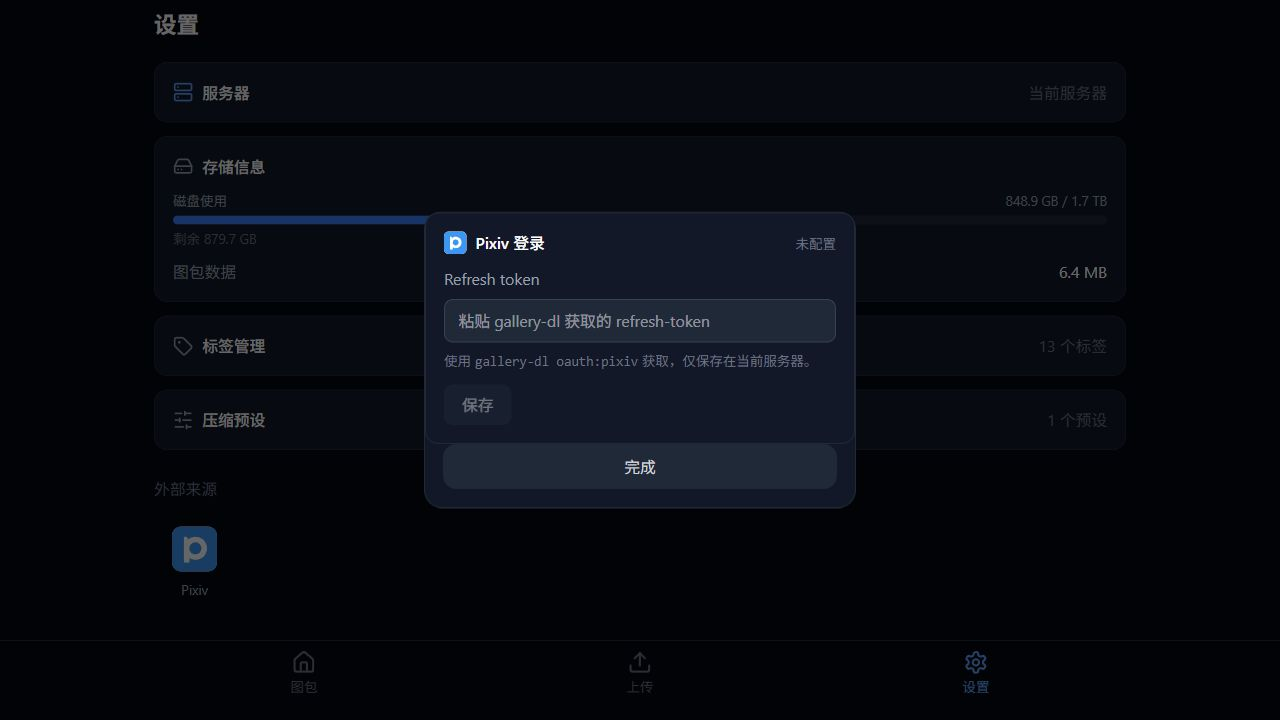
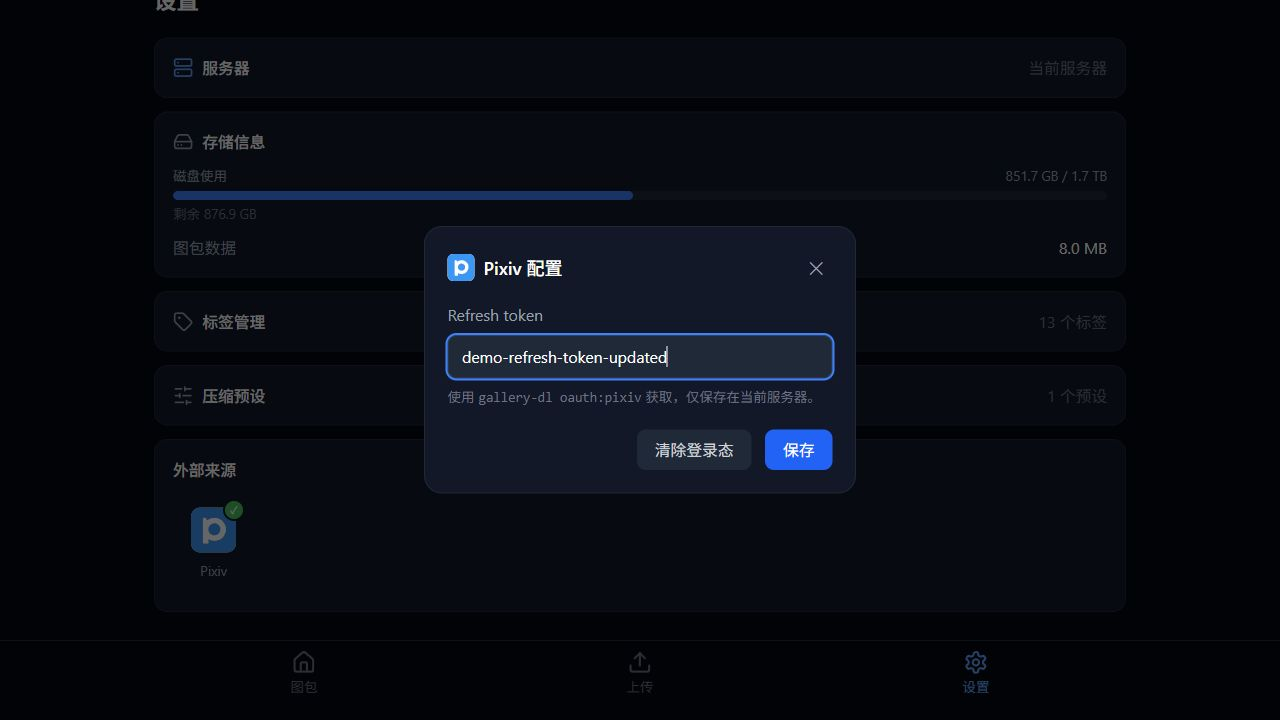
Refine Pixiv settings and document interface conventions

diff --git a/client/src/components/PixivSettings.tsx b/client/src/components/PixivSettings.tsx
@@ -3,33 +3,42 @@ import { fetchPixivSettings, updatePixivSettings } from '../api/pixiv';
 import type { PixivSettings as Settings } from '../../../shared/types';
 import { PixivIcon } from './ImportSources';
 
-export default function PixivSettings() {
+export default function PixivSettings({ onClose, onSaved }: { onClose: () => void; onSaved?: () => void }) {
   const [settings, setSettings] = useState<Settings | null>(null);
   const [token, setToken] = useState('');
+  const [savedToken, setSavedToken] = useState('');
   const [busy, setBusy] = useState(false);
   const [message, setMessage] = useState('');
-  useEffect(() => { void fetchPixivSettings().then(setSettings).catch(() => setMessage('无法读取 Pixiv 配置')); }, []);
+  useEffect(() => {
+    void fetchPixivSettings(true).then(value => {
+      setSettings(value); setToken(value.refreshToken ?? ''); setSavedToken(value.refreshToken ?? '');
+    }).catch(() => setMessage('无法读取 Pixiv 配置，请关闭后重试'));
+  }, []);
+  const canSave = settings !== null && !busy && !!token.trim() && token.trim() !== savedToken;
   const save = async (value: string) => {
     setBusy(true); setMessage('');
-    try { setSettings(await updatePixivSettings(value)); setToken(''); setMessage(value ? '已保存' : '已清除'); }
-    catch (error) { setMessage(error instanceof Error ? error.message : '保存失败'); }
+    try {
+      setSettings(await updatePixivSettings(value)); setToken(value); setSavedToken(value);
+      onSaved?.();
+      if (value) onClose(); else setMessage('已清除登录态');
+    } catch (error) { setMessage(error instanceof Error ? error.message : '保存失败'); }
     finally { setBusy(false); }
   };
-  return <section className="bg-gray-900 rounded-xl p-4 border border-gray-800">
-    <div className="flex items-center gap-2 mb-3"><PixivIcon className="w-5 h-5" /><h3 className="text-sm font-medium text-white">Pixiv 登录</h3>
-      <span className="ml-auto text-xs text-gray-500">{settings ? settings.configured ? '已配置' : '未配置' : '读取中…'}</span>
+  return <section className="p-5">
+    <div className="flex items-center gap-2 mb-4"><PixivIcon className="w-6 h-6" /><h3 className="text-base font-medium text-white">Pixiv 配置</h3>
+      <button type="button" aria-label="关闭" disabled={busy} onClick={onClose} className="ml-auto rounded-lg px-2 py-1 text-gray-400 hover:bg-gray-800 disabled:opacity-50">✕</button>
     </div>
-    <form onSubmit={event => { event.preventDefault(); void save(token.trim()); }}>
+    <form onSubmit={event => { event.preventDefault(); if (canSave) void save(token.trim()); }}>
       <label className="block text-sm text-gray-400">Refresh token
-        <input type="password" autoComplete="off" value={token} onChange={event => setToken(event.target.value)} maxLength={8192}
-          placeholder={settings?.configured ? '输入新 token 以替换' : '粘贴 gallery-dl 获取的 refresh-token'}
-          className="mt-2 w-full rounded-lg border border-gray-700 bg-gray-800 px-3 py-2 text-white" />
+        <input type="text" autoComplete="off" spellCheck={false} disabled={!settings || busy} value={token} onChange={event => setToken(event.target.value)} maxLength={8192}
+          placeholder="粘贴 gallery-dl 获取的 refresh-token"
+          className="mt-2 w-full rounded-lg border border-gray-700 bg-gray-800 px-3 py-2 text-white focus:outline-none focus:ring-2 focus:ring-blue-500 disabled:opacity-50" />
       </label>
       <p className="text-xs text-gray-500 mt-2">使用 <code>gallery-dl oauth:pixiv</code> 获取，仅保存在当前服务器。</p>
-      <div className="flex items-center gap-3 mt-3">
-        <button disabled={busy || !token.trim()} className="px-4 py-2 rounded-lg bg-gray-800 text-gray-200 text-sm disabled:opacity-50">保存</button>
-        {settings?.configured && <button type="button" disabled={busy} onClick={() => void save('')} className="text-sm text-gray-400 disabled:opacity-50">清除登录态</button>}
-        <span role="status" className="text-xs text-gray-400">{message}</span>
+      {message && <p role="status" className="mt-3 text-sm text-gray-300">{message}</p>}
+      <div className="flex items-center justify-end gap-3 mt-5">
+        {settings?.configured && <button type="button" disabled={busy} onClick={() => void save('')} className="px-4 py-2 rounded-lg bg-gray-800 hover:bg-gray-700 text-gray-300 text-sm disabled:opacity-50">清除登录态</button>}
+        <button disabled={!canSave} className="px-4 py-2 rounded-lg bg-blue-600 hover:bg-blue-500 text-white text-sm disabled:opacity-50 disabled:cursor-not-allowed">{busy ? '保存中…' : '保存'}</button>
       </div>
     </form>
   </section>;

diff --git a/client/src/components/ImportSources.tsx b/client/src/components/ImportSources.tsx
@@ -9,13 +9,13 @@ export function PixivIcon({ className = 'w-10 h-10' }: { className?: string }) {
 // A provider descriptor keeps the layout independent of individual import forms.
 const sources = [{ id: 'pixiv', label: 'Pixiv', Icon: PixivIcon }] as const;
 
-export default function ImportSources({ onSelect, title = '导入自', card = false }: { onSelect: (source: typeof sources[number]['id']) => void; title?: string; card?: boolean }) {
+export default function ImportSources({ onSelect, title = '导入自', card = false, configuredSources = [] }: { onSelect: (source: typeof sources[number]['id']) => void; title?: string; card?: boolean; configuredSources?: readonly string[] }) {
   return <section className={card ? 'mt-3 bg-gray-900 rounded-xl p-4 border border-gray-800' : 'mt-6'} aria-label={title}>
     <h3 className={card ? 'text-sm font-medium text-white mb-3' : 'text-sm text-gray-500 mb-3'}>{title}</h3>
     <div className="flex flex-wrap gap-3">
       {sources.map(({ id, label, Icon }) => <button key={id} type="button" onClick={() => onSelect(id)}
         className="flex flex-col items-center gap-2 rounded-xl px-4 py-3 text-gray-400 hover:bg-gray-800 hover:text-gray-200 transition-colors">
-        <Icon /><span className="text-xs">{label}</span>
+        <span className="relative"><Icon />{configuredSources.includes(id) && <span aria-label="已配置" title="已配置" className="absolute -right-1.5 -top-1.5 flex h-4 w-4 items-center justify-center rounded-full bg-green-500 text-[10px] text-white ring-2 ring-gray-900">✓</span>}</span><span className="text-xs">{label}</span>
       </button>)}
     </div>
   </section>;

diff --git a/client/src/components/ExternalSourcesSettings.tsx b/client/src/components/ExternalSourcesSettings.tsx
@@ -1,21 +1,24 @@
-import { useState } from 'react';
+import { useEffect, useState } from 'react';
+import { fetchPixivSettings } from '../api/pixiv';
 import ImportSources from './ImportSources';
 import PixivSettings from './PixivSettings';
 import Modal from './Modal';
 
-export function PixivSettingsDialog({ onClose }: { onClose: () => void }) {
+export function PixivSettingsDialog({ onClose, onSaved }: { onClose: () => void; onSaved?: () => void }) {
   return <Modal visible onClose={onClose} className="max-w-lg">
     <div role="dialog" aria-modal="true" aria-label="Pixiv 配置">
-      <PixivSettings />
-      <div className="px-4 pb-4"><button type="button" onClick={onClose} className="w-full rounded-xl bg-gray-800 py-2.5 text-sm text-gray-300">完成</button></div>
+      <PixivSettings onClose={onClose} onSaved={onSaved} />
     </div>
   </Modal>;
 }
 
 export default function ExternalSourcesSettings() {
   const [selected, setSelected] = useState(false);
+  const [configured, setConfigured] = useState(false);
+  const refresh = () => { void fetchPixivSettings().then(value => setConfigured(value.configured)).catch(() => setConfigured(false)); };
+  useEffect(refresh, []);
   return <>
-    <ImportSources card title="外部来源" onSelect={() => setSelected(true)} />
-    {selected && <PixivSettingsDialog onClose={() => setSelected(false)} />}
+    <ImportSources card title="外部来源" configuredSources={configured ? ['pixiv'] : []} onSelect={() => setSelected(true)} />
+    {selected && <PixivSettingsDialog onClose={() => setSelected(false)} onSaved={refresh} />}
   </>;
 }

diff --git a/server/test/pixiv-auth.test.ts b/server/test/pixiv-auth.test.ts
@@ -59,7 +59,7 @@ test('token errors never echo upstream credentials and never downgrade to anonym
   } finally { await agent.close(); }
 });
 
-test('settings persist privately, never return the token, and metadata creates only the reusable author tag', async t => {
+test('settings reveal tokens only on explicit configuration reads and metadata creates only the author tag', async t => {
   t.mock.method(jobQueue, 'start', () => {});
   const app = Fastify(); await app.register(registerPixivRoutes);
   try {
@@ -67,6 +67,10 @@ test('settings persist privately, never return the token, and metadata creates o
     const saved = await app.inject({ method: 'PUT', url: '/api/settings/pixiv', payload: { refreshToken: 'test-secret' } });
     assert.equal(saved.json().configured, true);
     assert.ok(!saved.body.includes('test-secret'));
+    assert.ok(!(await app.inject('/api/settings/pixiv')).body.includes('test-secret'));
+    const revealed = await app.inject('/api/settings/pixiv?reveal=1');
+    assert.equal(revealed.json().refreshToken, 'test-secret');
+    assert.equal(revealed.headers['cache-control'], 'no-store');
     assert.equal(readPixivSettings().refreshToken, 'test-secret');
     if (process.platform !== 'win32') assert.equal(fs.statSync(path.join(dataDir, 'pixiv-settings.json')).mode & 0o777, 0o600);
     const invalid = await app.inject({ method: 'PUT', url: '/api/settings/pixiv', payload: { refreshToken: 'invalid secret' } });

diff --git a/server/src/routes/pixiv.ts b/server/src/routes/pixiv.ts
@@ -16,10 +16,12 @@ const requestSchema = z.object({
 }).strict();
 
 export const registerPixivRoutes: FastifyPluginAsync = async app => {
-  app.get('/api/settings/pixiv', async (_request, reply) => {
+  app.get<{ Querystring: { reveal?: string } }>('/api/settings/pixiv', async (request, reply) => {
     reply.header('Cache-Control', 'no-store');
     const { refreshToken, source } = readPixivSettings();
-    return { configured: Boolean(refreshToken), source } satisfies PixivSettings;
+    return { configured: Boolean(refreshToken), source,
+      ...(request.query.reveal === '1' ? { refreshToken } : {}),
+    } satisfies PixivSettings;
   });
   app.put('/api/settings/pixiv', async (request, reply) => {
     const input = z.object({ refreshToken: refreshTokenSchema }).strict().safeParse(request.body);

diff --git a/client/src/api/pixiv.ts b/client/src/api/pixiv.ts
@@ -5,5 +5,5 @@ export const startPixivImport = (input: PixivImportRequest) => post<Pack>('/pack
 export const fetchPixivImport = (id: string) => get<PixivImportStatus>(`/packs/${id}/pixiv-import`);
 export const retryPixivImport = (id: string) => post(`/packs/${id}/pixiv-retry`);
 export const fetchPixivMetadata = (url: string) => post<PixivMetadata>('/packs/pixiv-metadata', { url });
-export const fetchPixivSettings = () => get<PixivSettings>('/settings/pixiv');
+export const fetchPixivSettings = (reveal = false) => get<PixivSettings>(`/settings/pixiv${reveal ? '?reveal=1' : ''}`);
 export const updatePixivSettings = (refreshToken: string) => put<PixivSettings>('/settings/pixiv', { refreshToken });

diff --git a/shared/types.ts b/shared/types.ts
@@ -188,6 +188,7 @@ export interface PixivMetadata {
 export interface PixivSettings {
   configured: boolean;
   source: 'settings' | 'environment' | 'none';
+  refreshToken?: string;
 }
 
 export interface UgoiraManifest {

diff --git a/docs/design-system.md b/docs/design-system.md
@@ -1,0 +1,44 @@
+# AoI 界面与交互规范
+
+此文档约束新功能和修改中的界面；现有页面逐步对齐。实现优先复用 `Modal`、`ImportSources`、`TagSelector`、`UploadTask` 与 `UploadTaskStatus`。
+
+## 视觉基础
+
+- 页面采用深色背景；区块使用 gray-900、gray-800 边框、rounded-xl、16px 内边距，弹窗 rounded-2xl、20px 内边距。相邻设置区块保持统一间距与标题层级。
+- 正文 white / gray-200，辅助说明 gray-400，次要元信息 gray-500。说明只保留操作必要的信息，避免重复标题或用法。
+- 主操作使用 blue-600，悬停 blue-500；成功 green，待确认 yellow，错误 red。状态必须同时有文字或可访问名称，不能只依赖颜色。
+- 图标配文字；外部来源使用品牌 logo，上方 40px 图标、下方小字号名称，入口使用中性背景。配置状态通过图标角标传达，角标可访问名称为「已配置」。这表示存在配置，不表示登录验证成功。
+
+## 按钮与表单
+
+- 同一操作组只有一个 primary action，横向排列时放最右侧。取消、返回、查看详情、清除配置等 secondary action 放左侧，使用 gray-800 背景。不能同时出现语义重复的「保存」和「完成」。
+- 保存成功关闭配置弹窗；右上角关闭退出。保存请求期间禁用重复提交；失败保留输入并在原处显示错误。空输入、尚未加载、未修改时禁用保存。
+- 破坏性删除使用红色语义并在必要时确认，不挤占日常流程的主操作。确认弹窗中取消在左，确认在右。
+- 表单使用持久可见 label，placeholder 只提供例子。输入框 gray-800 背景、gray-700 边框、rounded-lg，键盘焦点清晰可见。禁用状态降低透明度并使用不可用光标。
+- Pixiv refresh-token 在配置弹窗以普通文本回显，可编辑；只有打开配置时显式获取，状态角标不获取 token。关闭不保存，清除登录态立即保存空配置并反馈结果。
+- 标签以紧凑 chip 展示，选择交互复用普通上传的 TagSelector，不以逗号文本代替标签。自动识别只填默认值，不覆盖用户修改。
+
+## 弹窗与设置
+
+- 短配置使用弹窗；多步骤或复杂配置使用独立页面。弹窗有清晰标题、右上角关闭与底部右对齐操作区，不在弹窗里重复嵌套设置卡片。
+- 设置的「外部来源」与其他设置 section 使用相同卡片样式，内部通过可扩展的来源描述列表展示图标。上传页的「导入自」位于普通上传下方，保持紧凑中性入口。
+- 弹窗提供 dialog 名称；按钮可键盘操作，图标按钮有 aria-label；异步反馈使用 status / alert。小屏保持安全边距，不溢出横向宽度。
+
+## 核心链路：上传和外部导入
+
+1. 选择文件/目录，或选择来源输入网址。Pixiv 服务端识别名称和作者标签；作者以外的作品标签不自动导入。识别不阻断导入，提前提交时后台补齐默认值。已创建标签不随取消删除。
+2. 上传、下载、解包、校验、生成预览统一使用任务卡片。已知总量时展示真实进度；未知总量仅显示阶段与活动指示，不能伪造百分比。
+3. 重复检测展示匹配图包和明确选择，等待确认时保留任务。已能确定的错误立即在上传页展示，不能要求用户进入详情才知道失败。
+4. 错误提供问题、原因、解决方式及适用操作：缺登录态指向来源配置；可恢复失败提供重试；坏压缩包或密码错误提示重新上传。失败图包允许删除，取消需要说明将删除当前任务并确认。
+5. 缩略图生成后显示预览。完成状态中「查看图包」为 secondary，「继续上传」为右侧 primary。ugoira 展示动画标识，查看器提供播放/暂停。
+6. 上传任务是按服务器隔离的内存状态，不写入 `?task` 或持久存储。删除清除记忆；离开/刷新后可从图包详情恢复查看。不存在的任务应回到上传入口。
+
+## 核心链路：浏览、查看与生成
+
+- 图包列表以封面、名称、标签和处理状态帮助识别；处理失败必须可见，打开详情后保留重试/删除出口。
+- 查看器以图片或动画为主体，播放、暂停、切换与关闭使用明确图标和可访问名称，避免说明文本遮挡内容。
+- 生成/下载沿用真实阶段反馈，提交时防止重复触发，成功后提供明确下载入口，错误保留可恢复的编辑状态。
+
+## 验收
+
+至少核对初始、读取中、未修改、已修改、提交中、成功和失败状态；检查按钮顺序、小屏布局、键盘焦点与配置回显。上传改动另测取消、删除后切换 tab、重复检测和缩略图完成状态。PR 附相关界面截图，截图使用测试配置，避免暴露个人凭据。

diff --git a/README.md b/README.md
@@ -28,7 +28,7 @@ AoI（Angel of Images），你的本地图片管家。
 上传区域下方的「导入自」选择 Pixiv，输入 `https://www.pixiv.net/artworks/150150651` 这类作品网址（支持语言前缀和分享参数）。服务端自动填写作品标题，仅作者名作为自动添加的本地标签，不导入作品标签；手动编辑不被识别结果覆盖。标签在识别时创建，退出表单后保留。识别未完成也能点击导入，后台会补齐默认名称和标签。下载、内容去重和缩略图处理均在服务端执行；服务重启后后台任务可以继续。从图包详情进入「查看导入进度」可恢复页面，下载失败可重试，重复内容需要确认后保存。
 
 - `PIXIV_PROXY_URL`：可选，服务端 HTTP/HTTPS 代理，例如 `http://127.0.0.1:8889`。容器内的 `127.0.0.1` 指向容器自身，需要填容器可访问的代理地址。
-- `PIXIV_REFRESH_TOKEN`：可选，兼容 `gallery-dl oauth:pixiv` 获取的 refresh-token。也可在「设置 → 外部来源 → Pixiv」中填写或清除；页面配置保存在 `DATA_DIR/pixiv-settings.json`，优先于环境变量，清除后使用匿名访问。服务器缓存 access-token 并在过期或 401 时刷新。token 不回传前端、不进入图包和副本快照，也不发送给图片 CDN。使用 Node 原生实现的登录与下载流程，无需部署 Python / gallery-dl。获取方式见 [gallery-dl 配置说明](https://gdl-org.github.io/docs/configuration.html#extractor-pixiv-refresh-token)，协议兼容 [gallery-dl Pixiv App API](https://github.com/mikf/gallery-dl/blob/master/gallery_dl/extractor/pixiv.py)。
+- `PIXIV_REFRESH_TOKEN`：可选，兼容 `gallery-dl oauth:pixiv` 获取的 refresh-token。也可在「设置 → 外部来源 → Pixiv」中填写或清除；页面配置保存在 `DATA_DIR/pixiv-settings.json`，优先于环境变量，清除后使用匿名访问。服务器缓存 access-token 并在过期或 401 时刷新。token 仅在打开配置弹窗时按需回显，状态查询不返回 token；不进入图包和副本快照，也不发送给图片 CDN。使用 Node 原生实现的登录与下载流程，无需部署 Python / gallery-dl。获取方式见 [gallery-dl 配置说明](https://gdl-org.github.io/docs/configuration.html#extractor-pixiv-refresh-token)，协议兼容 [gallery-dl Pixiv App API](https://github.com/mikf/gallery-dl/blob/master/gallery_dl/extractor/pixiv.py)。
 - `PIXIV_COOKIE`：可选，未配置 refresh-token 时使用的 Pixiv 网页 Cookie。所有登录配置仅用于当前账号有权限访问的作品，请勿提交到仓库。
 
 默认无需登录即可导入公开作品；被删除、无访问权限或限流的作品会显示失败原因。每幅作品最多 1000 页，单张图片 / 动画源 ZIP 上限 100 MiB，总下载量受 `MAX_UPLOAD_SIZE` 限制，像素数受 `MAX_IMAGE_PIXELS` 限制。重试/重启恢复会重新下载，避免混用作品修改前后的页面。Pixiv 接口或访问策略发生变化可能影响导入。导入结果复用文件夹图包存储（`originalFormat: pixiv`），来源网址保存在 `originalFilename`，无需数据库迁移。
@@ -395,3 +395,5 @@ MIT
 ### RAR 解压环境
 
 本地需安装完整 7-Zip，并将安装目录加入 PATH（Windows 默认 `C:\Program Files\7-Zip`），重启服务使其生效。Docker 运行镜像固定为 Node 22 / Debian Bookworm，安装 `p7zip-full` 和 non-free 仓库的 `p7zip-rar`，构建时检查 RAR/RAR5 格式支持；仅安装 `p7zip-full` 不足以提供 RAR 解码。`npm run check` 包含生成式 RAR 图片解压测试。
+
+界面与交互约定见 [设计系统规范](docs/design-system.md)。
